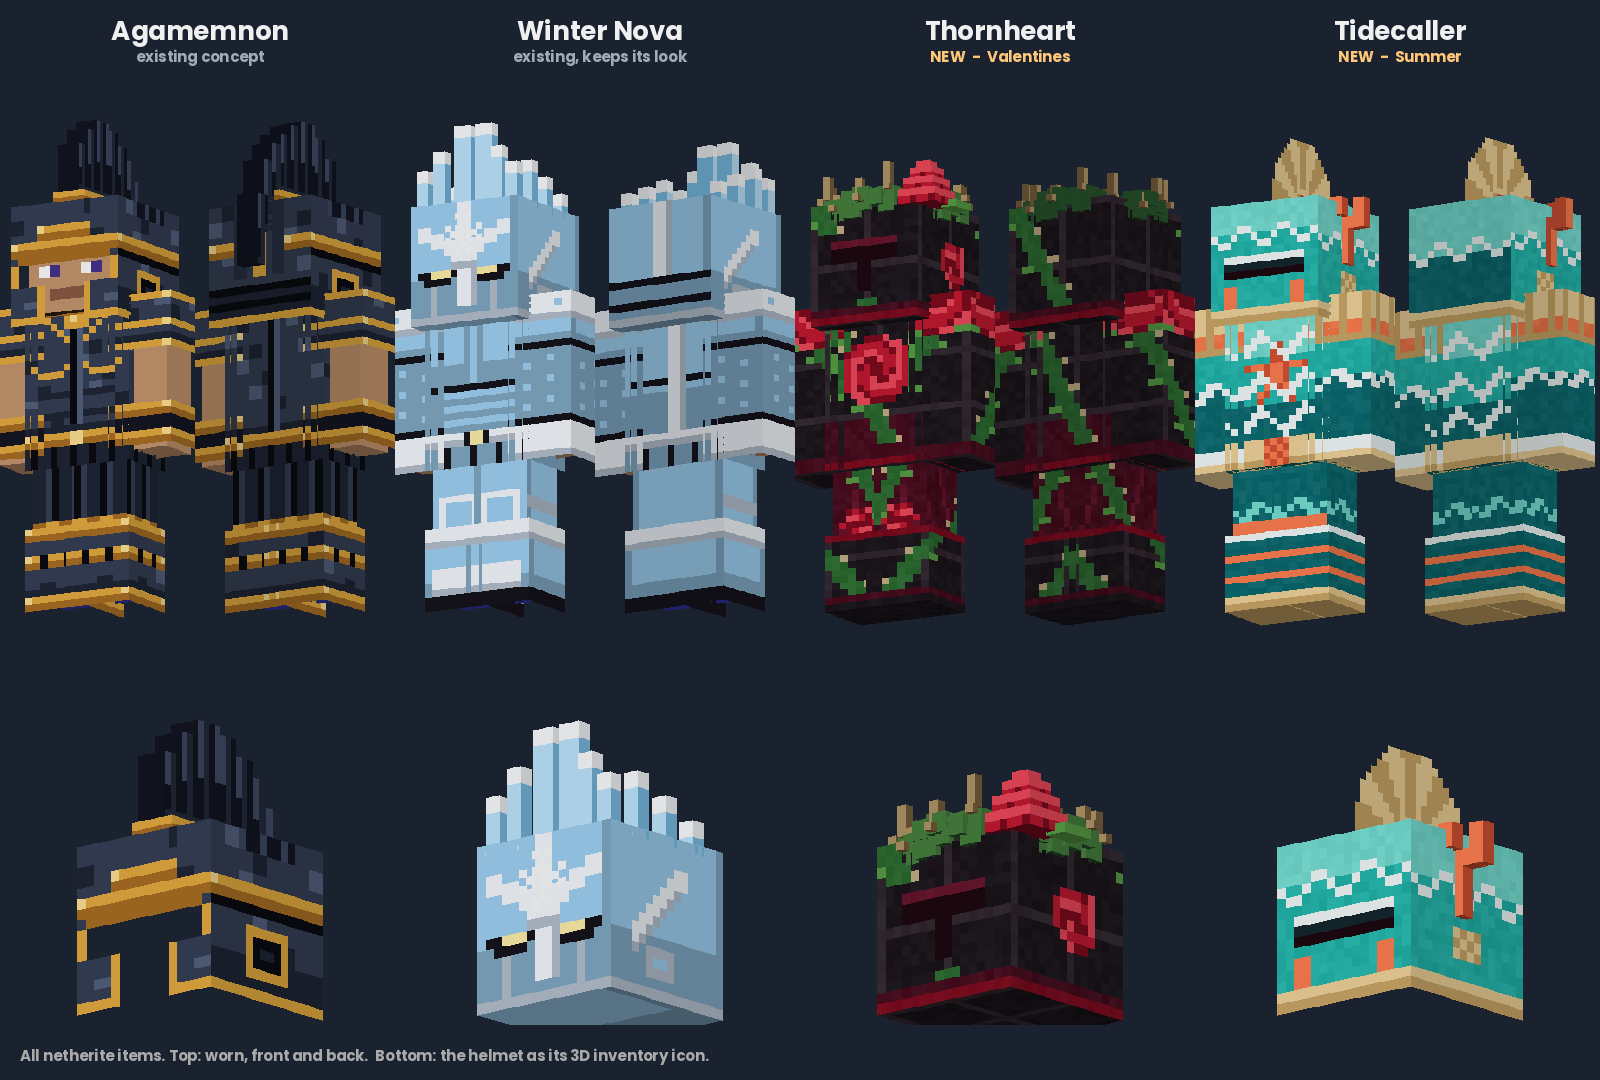
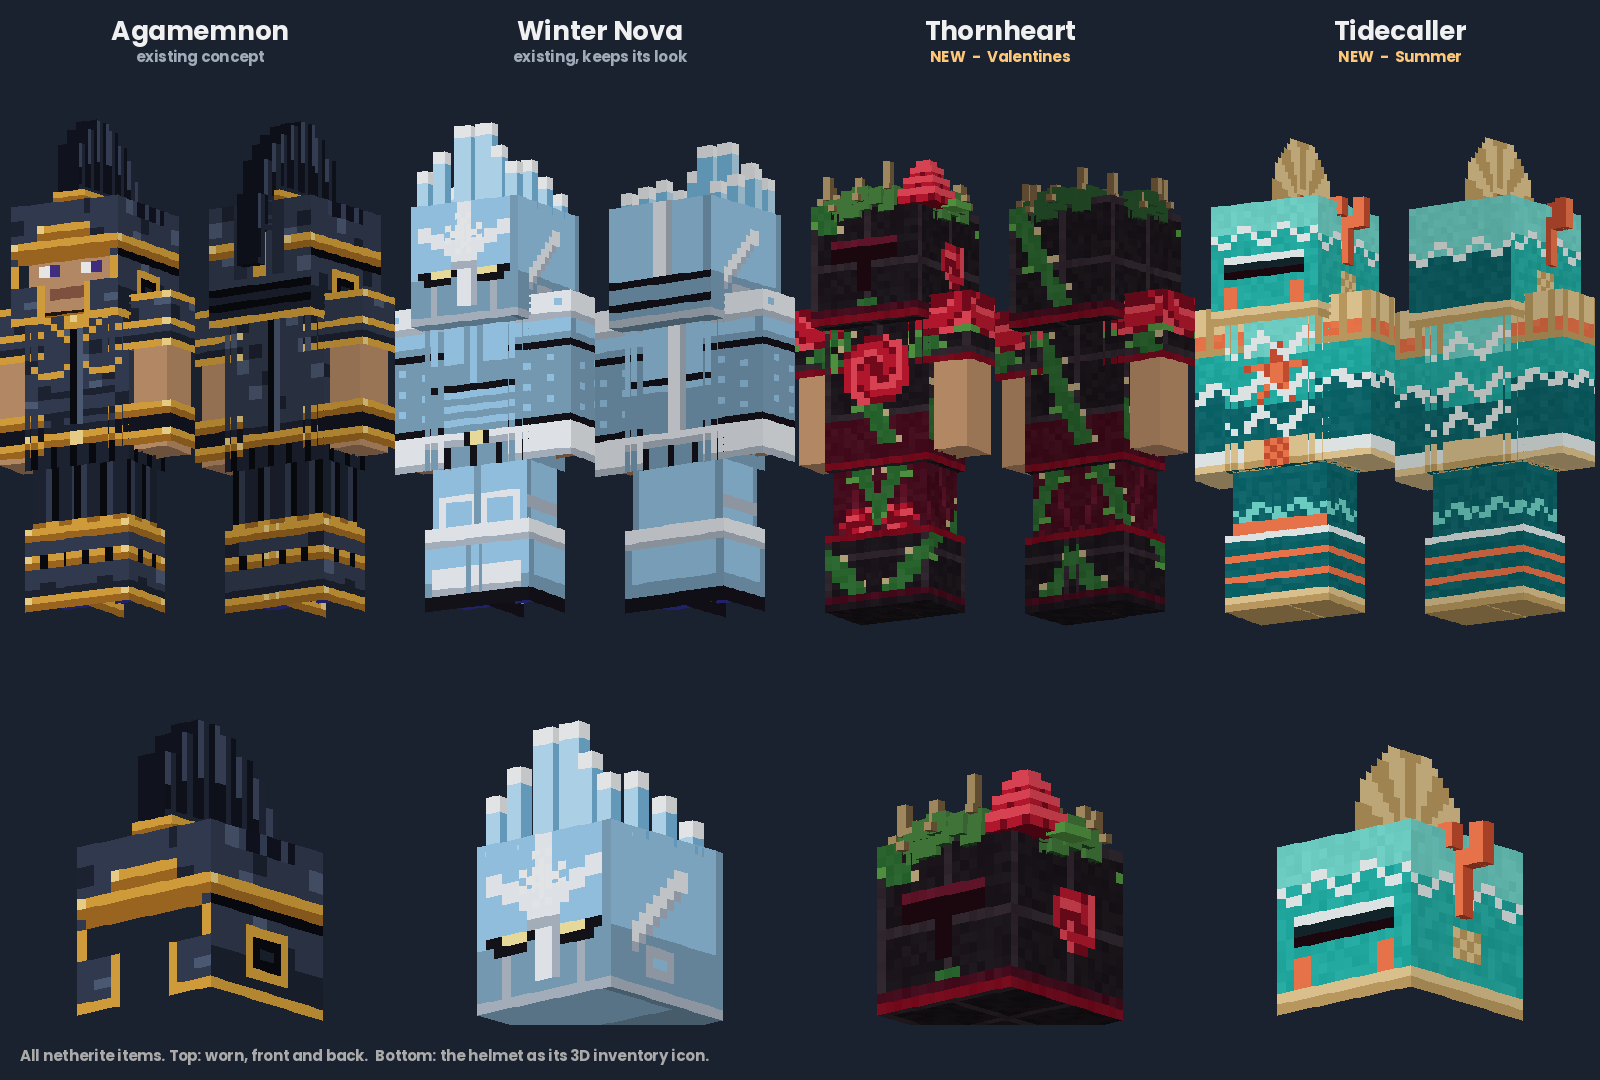
Concepts: Thornheart chestplate stops at the shoulders
Claude-Session: https://claude.ai/code/session_01UtexKntMTy5LWKErqeLgdQ

Changed region(s): [[0.5625, 0.3056, 0.6562, 0.4583], [0.6875, 0.3056, 0.75, 0.4583], [0.5, 0.3361, 0.5312, 0.4583]]

diff --git a/resource-pack/concepts/new-sets/design.py b/resource-pack/concepts/new-sets/design.py
@@ -235,14 +235,16 @@ def thorn_body(face, u, v, W, H):
     return noise(WN, u, v, 54, 5) if (v > H*0.7) else metal(u, v, 55)
 
 def thorn_arm(face, u, v, W, H):
+    """Shoulder guard only, like vanilla chestplates: the rest of the arm is the player's skin."""
     if face == 'top':                                               # rose blooming on the shoulder
         return rose(u, v, W/2-0.5, W/2-0.5, W/2+0.6) or noise(ROD, u, v, 60, 4)
-    if face == 'bottom': return metal(u, v, 61)
+    if face == 'bottom': return None                                # open sleeve end
+    if v >= 10: return None                                         # stops at the shoulder
+    if v == 9: return noise(ROD, u, v, 62, 4)                        # wine trim on the edge
     if v < 6:
         r = rose(u, v, W/2-0.5, -0.5, 6.0)
         if r: return r
         if v == 5 or v == 4 and u % 3 == 0: return LF
-    if H-2 <= v: return noise(WN, u, v, 62, 4)
     k = vine(face, u, v, W, H, W, 2, 0.6)
     return vine_color(k, u, v) if k else metal(u, v, 63)
 
@@ -509,7 +511,7 @@ sheet.convert('RGB').save(os.path.join(out, 'all-sets-preview.png'))
 NOTES = {
     'Thornheart':   ['A dark knight overgrown with roses.',
                      'Black plate with a deep wine sheen; a big rose blooms on the chest.',
-                     'Roses bloom on the shoulders; thorny vines wrap the arms and legs.',
+                     'Shoulder guards only (like vanilla) with roses on top; vines wrap the legs.',
                      'Helmet: knight T-visor, a 3D crown of thorns and one red rose.',
                      'Leggings: wine-red with a rose on each knee.'],
     'Tidecaller':   ['Lagoon turquoise fading to deep teal, with foam-white waves.',
